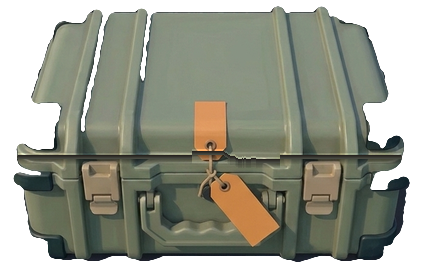
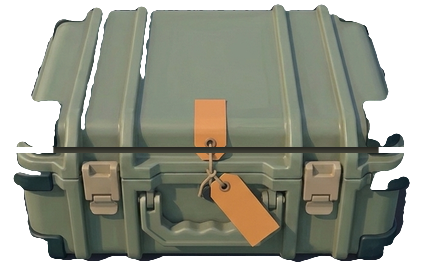
Pods masters: the crate opening frame rebuilt from the clean sealed crate; contact shadows strengthened (QA)

diff --git a/art/station-masters/pods/crate-recut/make-crate-opening.py b/art/station-masters/pods/crate-recut/make-crate-opening.py
@@ -1,0 +1,23 @@
+"""Fix 5 AR2 follow-up: crate-opening-432x272 rebuilt from the round-2 sealed crate (crate-sealed-432x272), so the opening frame
+carries the sealed crate's clean edges instead of the old hand composite's wing residue and jagged seam. The lid (every row above
+the seam, y < 153, the lid lip's lower edge) lifts 6 px; the 6 px gap shows the dark interior where the lid and the body both
+stand (a ramp from #282823 at the lid's shadowed underside to #424238, only across the body proper, inset 10 px, so the flared wings lift with no bar under them); the seal tag, which crosses the seam, tears there: its top
+rides up with the lid, its lower half stays on the body. Alpha and colour elsewhere are the sealed crate's own.
+usage: make-crate-opening.py SLICES_DIR"""
+import sys, os, numpy as np
+from PIL import Image
+sl = sys.argv[1]; SEAM, LIFT = 153, 6
+a = np.asarray(Image.open(os.path.join(sl, 'crate-sealed-432x272.png')).convert('RGBA')).astype(float)
+H, W = a.shape[:2]; out = np.zeros_like(a)
+out[SEAM:] = a[SEAM:]                                   # the body stays
+out[:SEAM - LIFT] = a[LIFT:SEAM]                        # the lid lifts
+body_x = np.where(a[SEAM + 17, :, 3] > 127)[0]                      # the body proper (row 170: 31-388), not the lid lip's handles (17-403)
+span = np.zeros(W, bool); span[body_x.min() + 10:body_x.max() - 9] = True
+span &= (a[SEAM - 1, :, 3] > 127) & (a[SEAM, :, 3] > 127)
+for i, y in enumerate(range(SEAM - LIFT, SEAM)):
+    t = i / (LIFT - 1); c = np.array([40, 40, 35]) * (1 - t) + np.array([66, 66, 56]) * t
+    out[y, span, :3] = c; out[y, span, 3] = 255
+# the gap's ends: soften one px so the interior does not read as a cut bar
+for x in np.where(span)[0][[0, -1]]: out[SEAM - LIFT:SEAM, x, 3] = 160
+Image.fromarray(np.round(out).astype(np.uint8), 'RGBA').save(os.path.join(sl, 'crate-opening-432x272.png'))
+print('gap span', int(span.sum()), 'px wide')

diff --git a/art/station-masters/pods/crate-recut/strengthen-shadows.py b/art/station-masters/pods/crate-recut/strengthen-shadows.py
@@ -1,0 +1,8 @@
+"""Fix 5 AR3 follow-up (QA, 10-15): the crates' contact shadows read too faint on the sage shelf (about 10 levels). Their alpha
+is multiplied by 1.6 and capped at 170 (67 %); colour and shape unchanged. usage: strengthen-shadows.py SLICES_DIR"""
+import sys, os, numpy as np
+from PIL import Image
+for n in ('crate-shadow-432x24', 'crate-shadow-256x24'):
+    p = os.path.join(sys.argv[1], n + '.png'); a = np.asarray(Image.open(p).convert('RGBA')).astype(float)
+    a[..., 3] = np.minimum(170, np.round(a[..., 3] * 1.6)); Image.fromarray(a.astype(np.uint8), 'RGBA').save(p)
+    print(n, 'alpha max', int(a[..., 3].max()))
